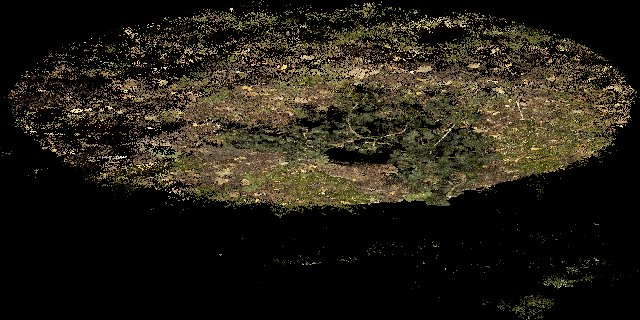
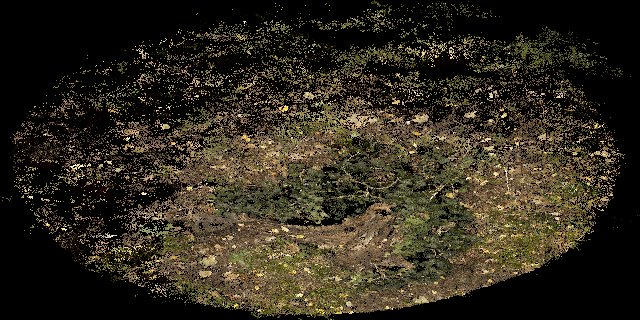
splat: Up-Achse aus Bodenebene (PCA) + stehende Menschensicht-Startpose
Feste Up-Achse [0,-1,0] kippte 3DGS-Szenen (COLMAP-Frame beliebig orientiert);
stump war ~47 Grad schief. seed_splat schaetzt die Up-Achse jetzt aus der
Bodenebene (kleinste PCA-Achse, Vorzeichen ueber Schiefe). splat.html startet
in 1,7 m Augenhoehe, ~0,9*radius zurueckversetzt, Blick schraeg von oben auf das
Objekt -- stehende Menschensicht statt Gesicht-im-Boden.

diff --git a/docs/splat.html b/docs/splat.html
@@ -88,16 +88,27 @@
       const radius = mn.distanceTo(mx) / 2 || 8;
       // tiefster Punkt entlang der Up-Achse -> Augenhoehe 1,6 m darueber
       const minAlong = Math.min(mn.dot(upv), mx.dot(upv));
-      const eye = center.clone().sub(upv.clone().multiplyScalar(center.dot(upv) - minAlong - 1.6));
+      // Boden-Zentrum (Stumpf), davon menschliche Augenhoehe hoch + ein Stueck
+      // horizontal zurueck -> stehende Sicht schraeg von oben auf das Objekt
+      const groundC = center.clone().sub(upv.clone().multiplyScalar(center.dot(upv) - minAlong));
       // horizontale Basis (senkrecht zur Up-Achse)
       const ref = Math.abs(upv.z) < 0.9 ? new THREE.Vector3(0, 0, 1) : new THREE.Vector3(1, 0, 0);
       const t1 = new THREE.Vector3().crossVectors(ref, upv).normalize();
       const t2 = new THREE.Vector3().crossVectors(upv, t1).normalize();
 
+      // Startpose: 1,7 m Augenhoehe, ~0,9*radius horizontal zurueck, Blick auf den Stumpf
+      const eye = groundC.clone()
+        .add(upv.clone().multiplyScalar(1.7))
+        .add(t1.clone().multiplyScalar(radius * 0.9));
+      const lookT = groundC.clone().add(upv.clone().multiplyScalar(0.3));
+      const ld0 = lookT.clone().sub(eye).normalize();
+      const yaw0 = Math.atan2(ld0.dot(t2), ld0.dot(t1));
+      const pitch0 = Math.asin(Math.max(-1, Math.min(1, ld0.dot(upv))));
+
       const viewer = new GaussianSplats3D.Viewer({
         cameraUp: upv.toArray(),
         initialCameraPosition: eye.toArray(),
-        initialCameraLookAt: eye.clone().add(t1).toArray(),
+        initialCameraLookAt: lookT.toArray(),
         sharedMemoryForWorkers: false,   // ohne COOP/COEP -> laeuft auf GitHub Pages
         useBuiltInControls: false,       // eigene Begehung, damit sich der Raum nicht dreht
       });
@@ -112,10 +123,7 @@
       const cam = viewer.camera;
       cam.up.copy(upv);
       let mode = 'walk';
-      // Startblick horizontal zum Wolken-Zentrum (nicht ins Leere)
-      const toC = center.clone().sub(eye);
-      let yaw = Math.atan2(toC.dot(t2), toC.dot(t1)) || 0;
-      let pitch = -0.03;
+      let yaw = yaw0, pitch = pitch0;   // Start: stehend, Blick schraeg auf den Stumpf
       const pos = eye.clone();
       const step = Math.max(0.05, radius * 0.012);      // Schrittweite an Szenengroesse
       let orbYaw = 0, orbPitch = 0.35, orbR = radius * 1.8;   // Umkreisen

diff --git a/platform/web/gallery/splat.html b/platform/web/gallery/splat.html
@@ -88,16 +88,27 @@
       const radius = mn.distanceTo(mx) / 2 || 8;
       // tiefster Punkt entlang der Up-Achse -> Augenhoehe 1,6 m darueber
       const minAlong = Math.min(mn.dot(upv), mx.dot(upv));
-      const eye = center.clone().sub(upv.clone().multiplyScalar(center.dot(upv) - minAlong - 1.6));
+      // Boden-Zentrum (Stumpf), davon menschliche Augenhoehe hoch + ein Stueck
+      // horizontal zurueck -> stehende Sicht schraeg von oben auf das Objekt
+      const groundC = center.clone().sub(upv.clone().multiplyScalar(center.dot(upv) - minAlong));
       // horizontale Basis (senkrecht zur Up-Achse)
       const ref = Math.abs(upv.z) < 0.9 ? new THREE.Vector3(0, 0, 1) : new THREE.Vector3(1, 0, 0);
       const t1 = new THREE.Vector3().crossVectors(ref, upv).normalize();
       const t2 = new THREE.Vector3().crossVectors(upv, t1).normalize();
 
+      // Startpose: 1,7 m Augenhoehe, ~0,9*radius horizontal zurueck, Blick auf den Stumpf
+      const eye = groundC.clone()
+        .add(upv.clone().multiplyScalar(1.7))
+        .add(t1.clone().multiplyScalar(radius * 0.9));
+      const lookT = groundC.clone().add(upv.clone().multiplyScalar(0.3));
+      const ld0 = lookT.clone().sub(eye).normalize();
+      const yaw0 = Math.atan2(ld0.dot(t2), ld0.dot(t1));
+      const pitch0 = Math.asin(Math.max(-1, Math.min(1, ld0.dot(upv))));
+
       const viewer = new GaussianSplats3D.Viewer({
         cameraUp: upv.toArray(),
         initialCameraPosition: eye.toArray(),
-        initialCameraLookAt: eye.clone().add(t1).toArray(),
+        initialCameraLookAt: lookT.toArray(),
         sharedMemoryForWorkers: false,   // ohne COOP/COEP -> laeuft auf GitHub Pages
         useBuiltInControls: false,       // eigene Begehung, damit sich der Raum nicht dreht
       });
@@ -112,10 +123,7 @@
       const cam = viewer.camera;
       cam.up.copy(upv);
       let mode = 'walk';
-      // Startblick horizontal zum Wolken-Zentrum (nicht ins Leere)
-      const toC = center.clone().sub(eye);
-      let yaw = Math.atan2(toC.dot(t2), toC.dot(t1)) || 0;
-      let pitch = -0.03;
+      let yaw = yaw0, pitch = pitch0;   // Start: stehend, Blick schraeg auf den Stumpf
       const pos = eye.clone();
       const step = Math.max(0.05, radius * 0.012);      // Schrittweite an Szenengroesse
       let orbYaw = 0, orbPitch = 0.35, orbR = radius * 1.8;   // Umkreisen

diff --git a/platform/dev/seed_splat.py b/platform/dev/seed_splat.py
@@ -49,13 +49,26 @@ def main():
     ap.add_argument("--id", required=True)
     ap.add_argument("--title", required=True)
     ap.add_argument("--description", default="Begehbares 3D-Gaussian-Splatting-Ergebnis.")
-    ap.add_argument("--camera-up", nargs=3, type=float, default=[0, -1, 0],
-                    help="Up-Achse (3DGS-Standard 0 -1 0)")
+    ap.add_argument("--camera-up", nargs=3, type=float, default=None,
+                    help="Up-Achse manuell; ohne Angabe automatisch aus der Bodenebene (PCA)")
     ap.add_argument("--note", default="Trainiertes 3DGS (Neuansichts-Synthese).")
     args = ap.parse_args()
 
     arr, names = read_ply(args.ply)
     xyz = np.stack([arr["x"], arr["y"], arr["z"]], 1).astype(np.float32)
+
+    # Up-Achse: manuell, sonst aus der Bodenebene schaetzen (PCA-Normale).
+    # 3DGS/COLMAP-Szenen sind beliebig orientiert -> ein festes [0,-1,0] kippt.
+    if args.camera_up is None:
+        cen = xyz.mean(0)
+        _, V = np.linalg.eigh(np.cov((xyz - cen).T))
+        up = V[:, 0]                                   # kleinster Eigenwert = Ebenennormale
+        proj = (xyz - cen) @ up                        # Vorzeichen: Tail (Baeume) = oben
+        if proj.mean() < np.median(proj):
+            up = -up
+        args.camera_up = [float(c) for c in up]
+        print(f"  Up-Achse automatisch (Bodenebene): "
+              f"[{up[0]:.2f}, {up[1]:.2f}, {up[2]:.2f}]")
     fdc = np.stack([arr.get(f"f_dc_{i}") if hasattr(arr, "get") else arr[f"f_dc_{i}"]
                     for i in range(3)], 1)
     col = np.clip(0.5 + C0 * fdc, 0, 1)